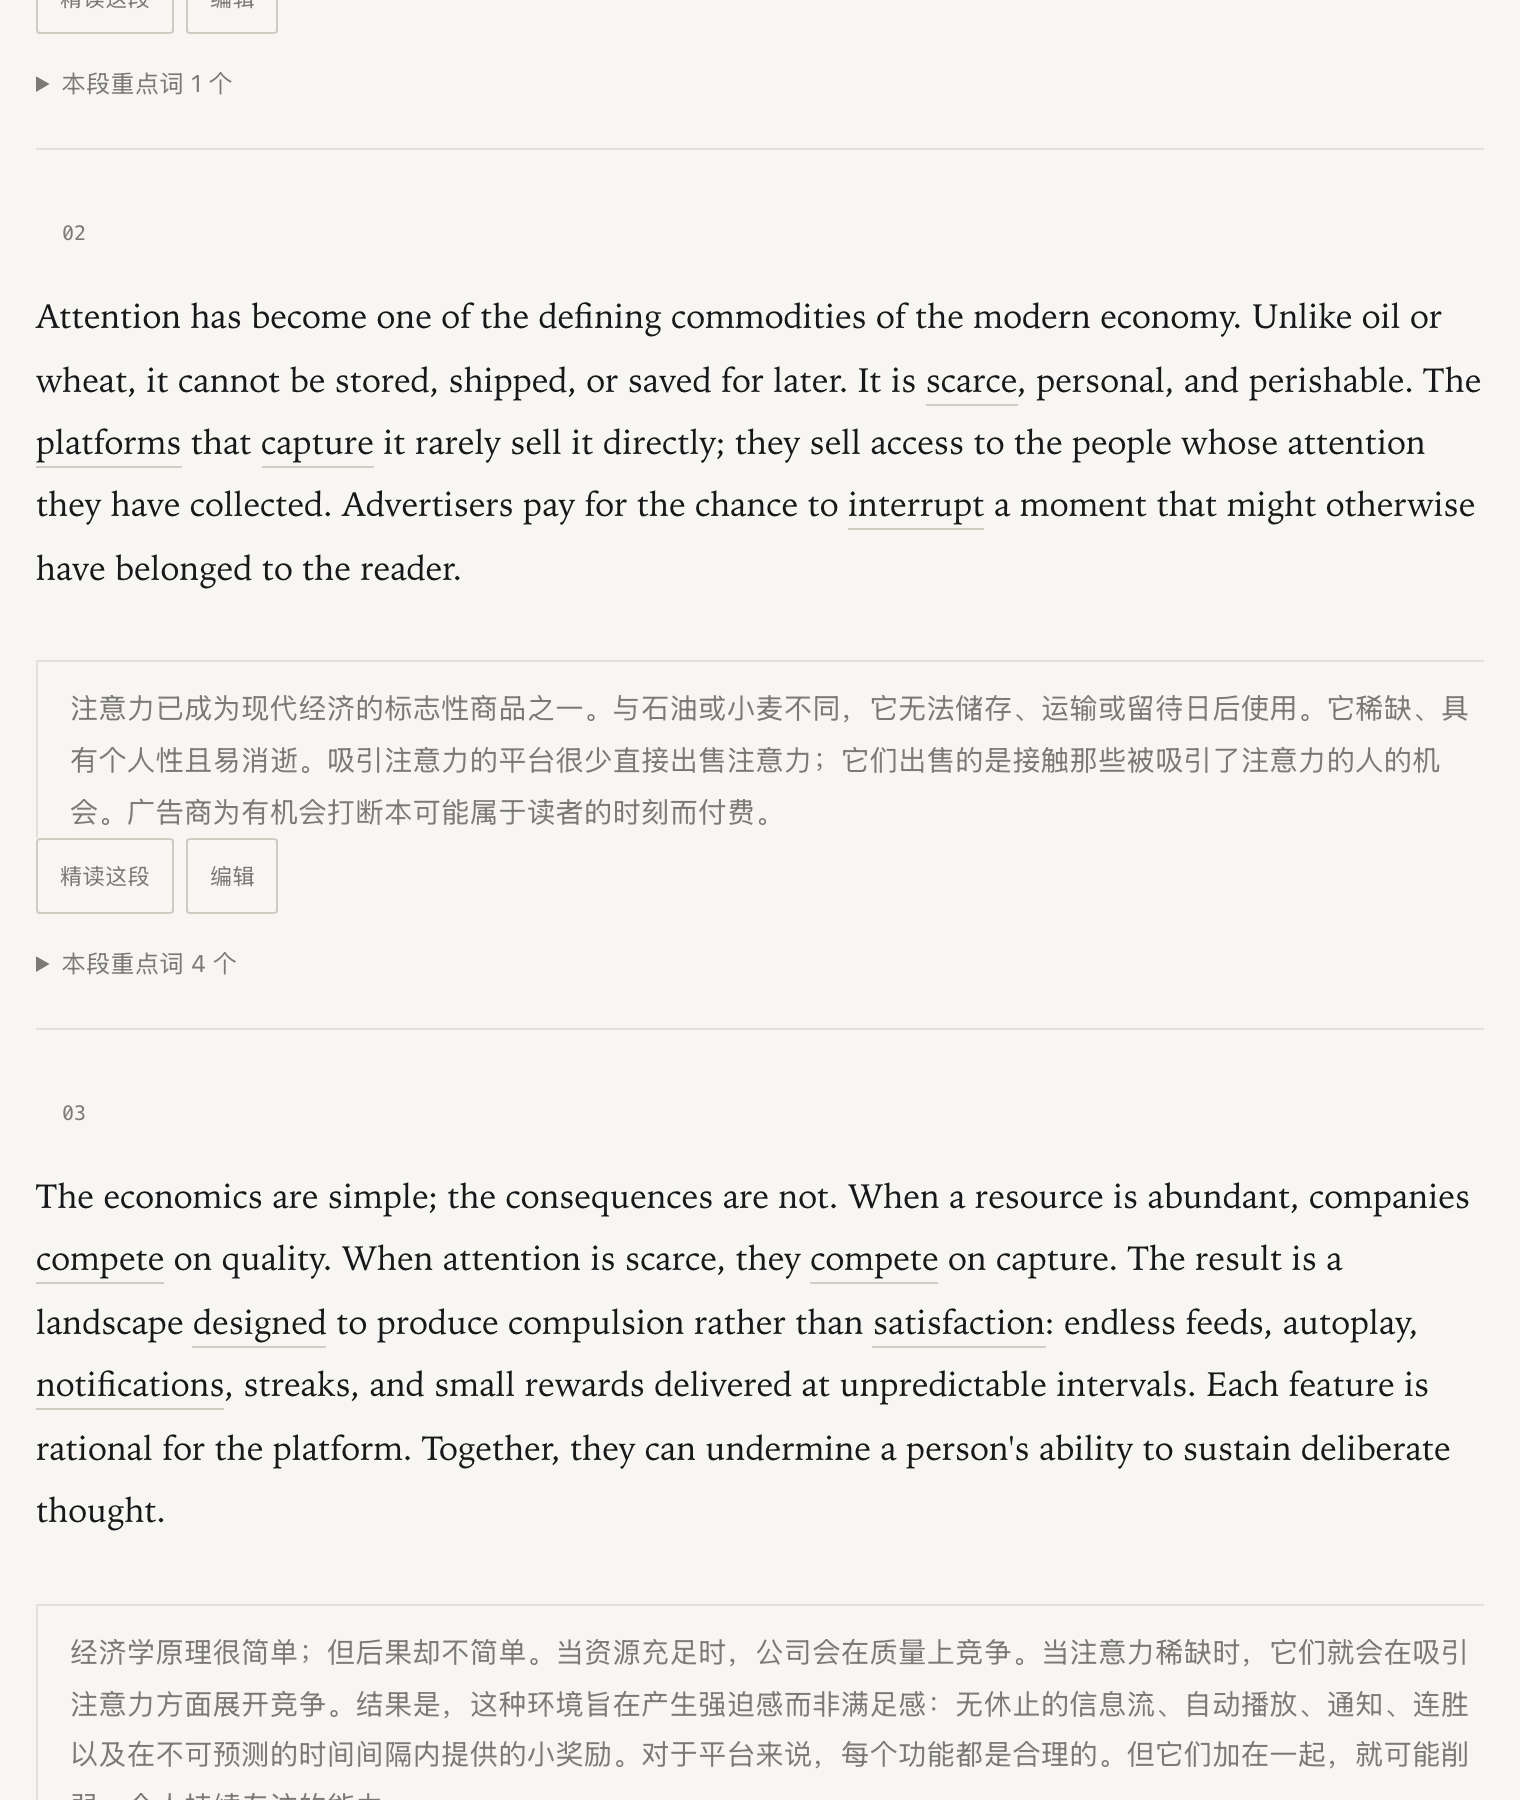
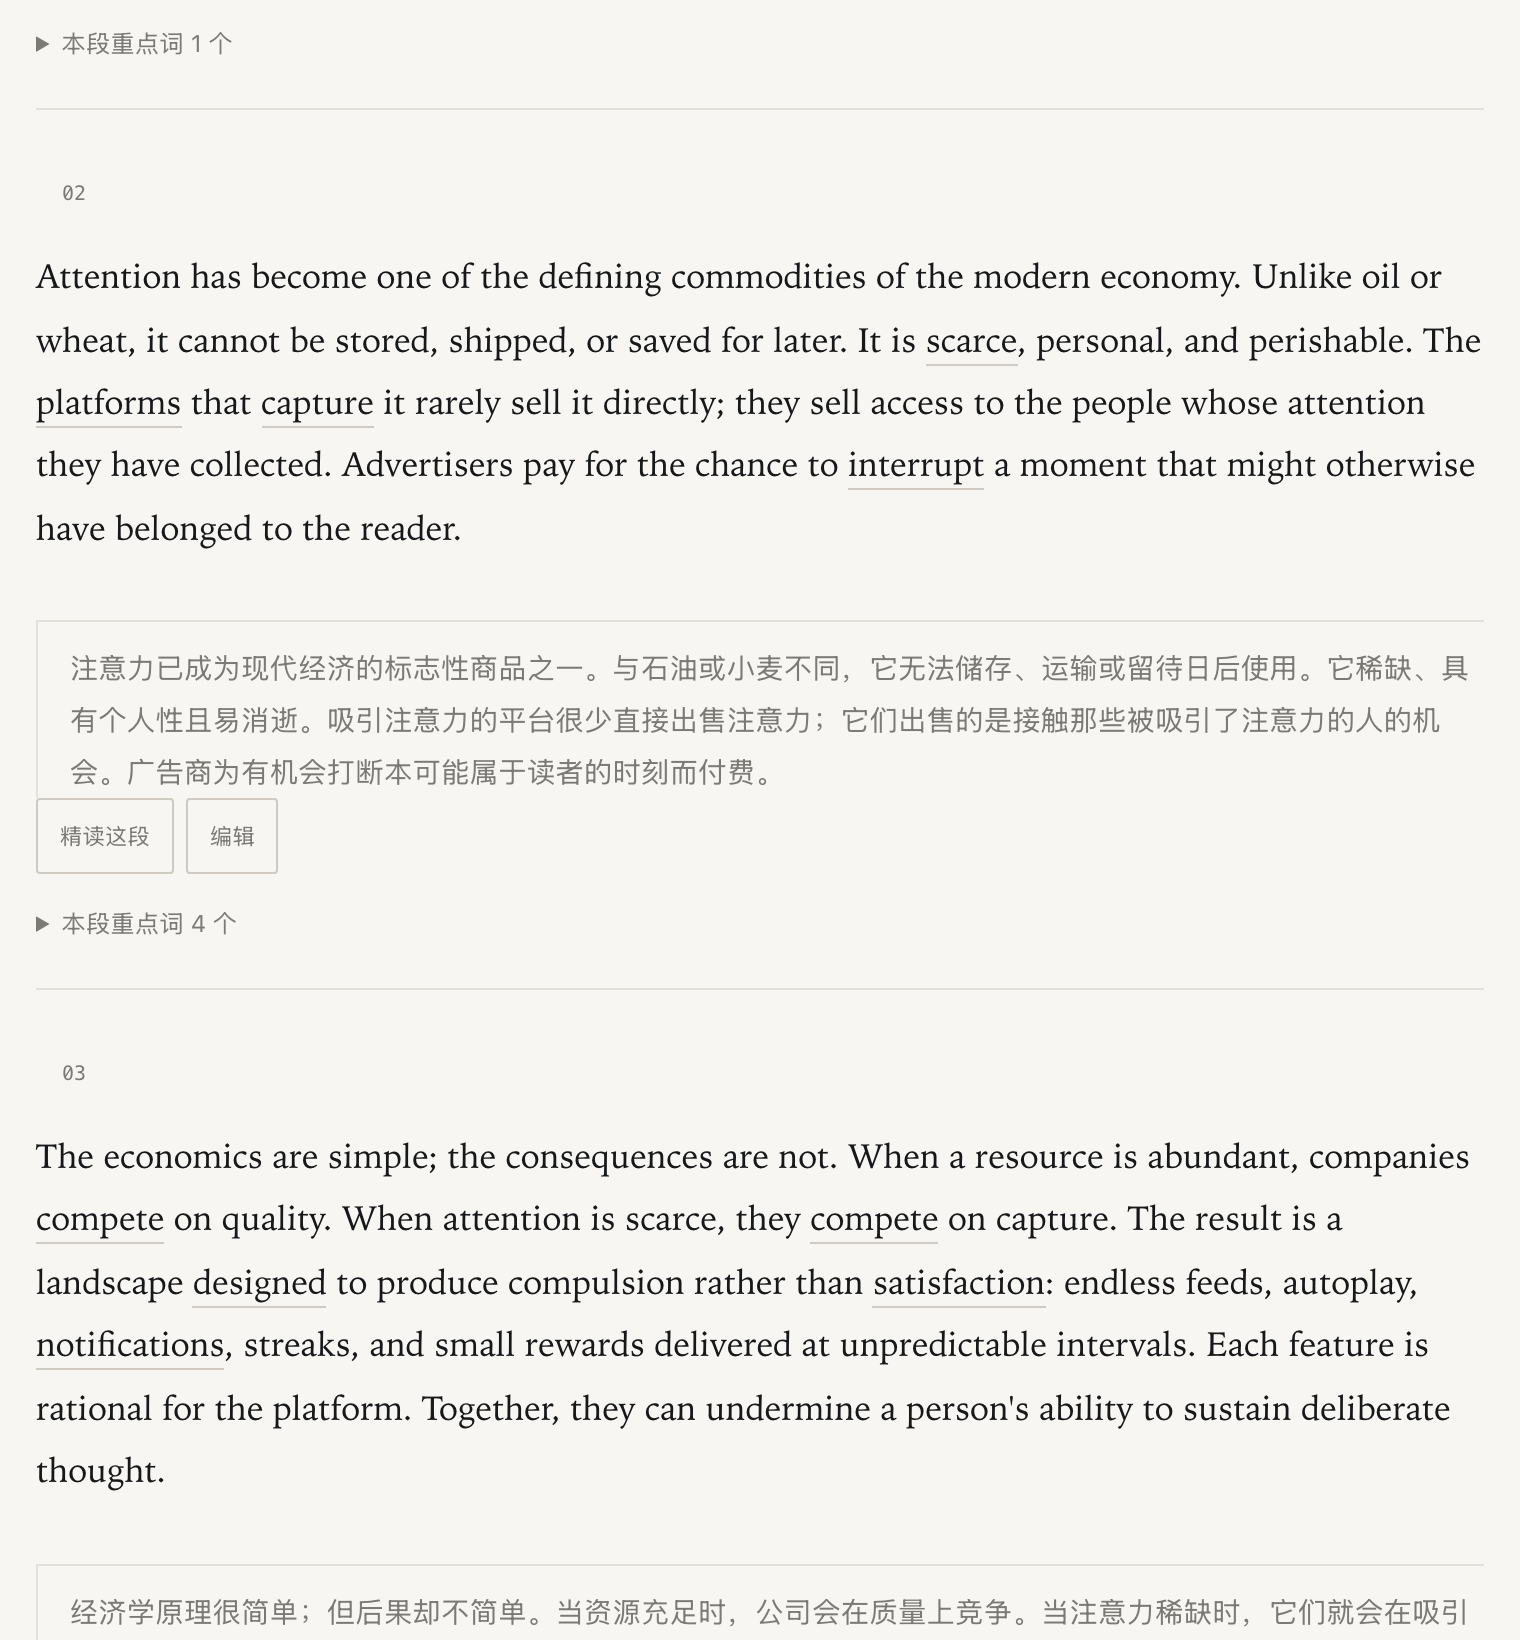
fix: the word card's 造句 button carried a 40px margin from the exercise block
.practice { margin-top: 40px } was a bare rule, so the card action row grew to\ntwo lines and every other button looked misaligned. Reset margins for buttons\ninside .item-actions.

diff --git a/src/pack/html.ts b/src/pack/html.ts
@@ -932,8 +932,10 @@ ${exportMode ? '' : themeBootScript()}
   }
   .star { border: 0; background: transparent; color: var(--line-strong); font-size: 16px; cursor: pointer; padding: 0 2px; line-height: 1; }
   .star.active { color: var(--cinnabar); }
-  .item-actions { display: flex; align-items: center; justify-content: flex-end; flex-wrap: wrap; gap: 4px; flex: 0 0 auto; }
-  .item-actions button { white-space: nowrap; }
+  .item-actions { display: flex; align-items: center; justify-content: flex-end; flex-wrap: nowrap; gap: 4px; flex: 0 0 auto; }
+  /* .practice also styles the exercise block further down the page; keep its
+     margin out of the word cards, where it pushed 造句 onto its own line. */
+  .item-actions button { margin: 0; white-space: nowrap; }
   .remove { border: 0; background: transparent; color: var(--line-strong); font-size: 16px; cursor: pointer; padding: 0 2px; line-height: 1; }
   .remove:hover { color: var(--cinnabar); }
   .expand { border: 1px solid var(--line); background: transparent; color: var(--indigo); border-radius: 999px; padding: 1px 8px; font: inherit; font-size: 10.5px; cursor: pointer; }
